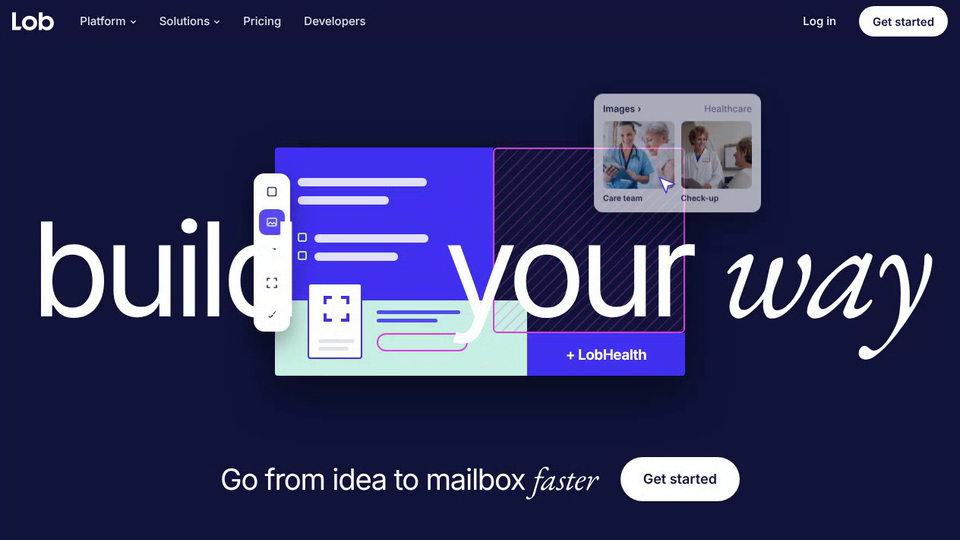
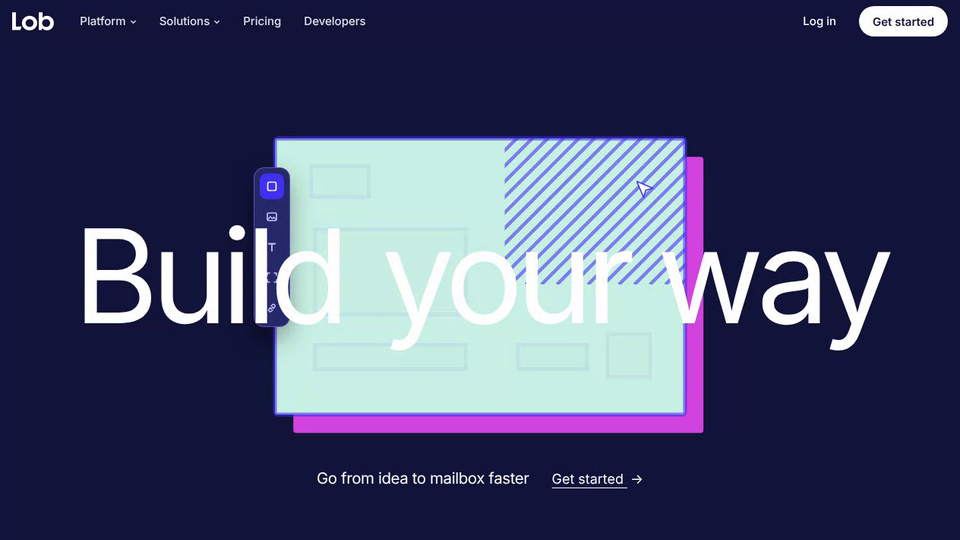
Lob Get Started: hero postcard builds like the Lob template card sketch
Port of the sketch's build: card pops in with a hard offset shadow,
outlined boxes hop between three layouts over a hatched photo corner,
then the panel wipes in, the photo settles, bars, check circles, QR
card and URL pill pop in, before the high fidelity pass (a
{{FirstName}} tag that resolves to Maya), bleed and crop marks, QA scan
and the three checks. Floating UI is dark navy so it reads under the
headline. Build your way is one sans serif line, the subline is smaller
with a thin underlined Get started link, and the mail stack cards are
no longer tilted.

Claude-Session: https://claude.ai/code/session_016rpgucWKf3te6zwsCQ1J4C

Changed region(s): [[0.0312, 0.1481, 0.9688, 0.9481]]

diff --git a/lob-get-started/index.html b/lob-get-started/index.html
@@ -87,8 +87,8 @@ html body nav.back:not(.sb-panel):not(:has(>div))>a,html body nav.back:not(.sb-p
 .chipfile .ok{width:22px;height:22px;border-radius:6px;background:var(--lime);display:grid;place-items:center}
 /* hero postcard: abstract blocks -> high fidelity -> bleed + crop -> QA scan -> checks */
 .hc{position:absolute;left:0;top:0;width:700px;height:430px;transform-origin:0 0;--pu:#4131f1;--mint:#c9f0e4;--hot:#d244de}
-.post{position:absolute;left:80px;top:62px;width:540px;height:300px;border-radius:4px;transition:box-shadow .5s}
-.post.on{box-shadow:0 26px 60px rgba(0,0,0,.45)}
+.pcv{position:absolute;left:0;top:0;width:700px;height:430px}
+.post{position:absolute;left:80px;top:34px;width:540px;height:363px;pointer-events:none}
 .blk{position:absolute;box-sizing:border-box;border:2.5px solid var(--lav);background:rgba(169,156,255,.12);border-radius:6px;opacity:0;transform:scale(.7);transition:opacity .3s,transform .45s cubic-bezier(.2,1.6,.4,1),background .5s,border-color .5s,border-radius .5s}
 .blk.in{opacity:1;transform:none}
 .blk.hf{background:var(--hf);border-color:transparent;border-radius:0}
@@ -119,56 +119,55 @@ html body nav.back:not(.sb-panel):not(:has(>div))>a,html body nav.back:not(.sb-p
 #bU.hf .url{background:var(--hot);border-color:var(--hot)}
 .blk .logo{position:absolute;left:0;right:0;top:50%;transform:translateY(-50%);text-align:center;font:700 19px var(--sans);letter-spacing:-.03em;color:#fff;opacity:0;transition:opacity .4s}
 #bL.hf .logo{opacity:1}#bL.hf .bar{opacity:0}
-.ants2{position:absolute;left:283px;top:-4px;width:261px;height:252px;border:2.5px dashed var(--mint);border-radius:5px;opacity:0;transition:opacity .25s}
+.ants2{position:absolute;left:283px;top:-4px;width:261px;height:303px;border:2.5px dashed var(--mint);border-radius:5px;opacity:0;transition:opacity .25s}
 .scanl{position:absolute;left:-14px;right:-14px;top:0;height:3px;background:var(--mint);box-shadow:0 0 18px 4px rgba(201,240,228,.8);opacity:0}
-.bleed{position:absolute;left:68px;top:50px;width:564px;height:324px;border:2px dashed var(--hot);border-radius:3px;opacity:0;transition:opacity .4s}
+.bleed{position:absolute;left:68px;top:22px;width:564px;height:387px;border:2px dashed var(--hot);border-radius:3px;opacity:0;transition:opacity .4s}
 .bleed i{position:absolute;background:#fff;opacity:.9}
 .bleed i:nth-child(1){left:-22px;top:10px;width:16px;height:2px}.bleed i:nth-child(2){left:10px;top:-22px;width:2px;height:16px}
 .bleed i:nth-child(3){right:-22px;top:10px;width:16px;height:2px}.bleed i:nth-child(4){right:10px;top:-22px;width:2px;height:16px}
 .bleed i:nth-child(5){left:-22px;bottom:10px;width:16px;height:2px}.bleed i:nth-child(6){left:10px;bottom:-22px;width:2px;height:16px}
 .bleed i:nth-child(7){right:-22px;bottom:10px;width:16px;height:2px}.bleed i:nth-child(8){right:10px;bottom:-22px;width:2px;height:16px}
-.qa{position:absolute;left:50%;top:8px;transform:translateX(-50%) translateY(6px);height:30px;padding:0 14px;border-radius:99px;background:#fff;color:#1e2245;display:flex;align-items:center;gap:8px;font:700 11px var(--sans);letter-spacing:.12em;white-space:nowrap;opacity:0;transition:opacity .3s,transform .3s;z-index:3}
+.qa{position:absolute;left:50%;top:8px;transform:translateX(-50%) translateY(6px);height:30px;padding:0 14px;border-radius:99px;background:#262a6b;border:1px solid rgba(169,156,255,.5);color:#fff;display:flex;align-items:center;gap:8px;font:700 11px var(--sans);letter-spacing:.12em;white-space:nowrap;opacity:0;transition:opacity .3s,transform .3s;z-index:3}
 .qa.on{opacity:1;transform:translateX(-50%)}
 .qa i{width:18px;height:18px;border-radius:5px;background:var(--mint);display:grid;place-items:center;font-style:normal;font-size:11px;color:var(--pu)}
-.rail{position:absolute;left:52px;top:96px;width:48px;padding:7px;border-radius:14px;background:#fff;display:flex;flex-direction:column;gap:6px;box-shadow:0 14px 30px rgba(0,0,0,.35);opacity:0;transform:translateX(-8px);transition:opacity .35s,transform .35s;z-index:3}
+.rail{position:absolute;left:52px;top:72px;width:48px;padding:7px;border-radius:14px;background:#262a6b;border:1px solid rgba(169,156,255,.4);display:flex;flex-direction:column;gap:6px;box-shadow:0 14px 30px rgba(0,0,0,.35);opacity:0;transform:translateX(-8px);transition:opacity .35s,transform .35s;z-index:3}
 .rail.on{opacity:1;transform:none}
-.rail b{height:34px;border-radius:9px;display:grid;place-items:center;color:#3a3e5c;transition:background .2s,color .2s}
+.rail b{height:34px;border-radius:9px;display:grid;place-items:center;color:#c9c4ff;transition:background .2s,color .2s}
 .rail b svg{width:16px;height:16px}
 .rail b.on{background:var(--pu);color:#fff}
-.gal{position:absolute;left:500px;top:-6px;width:220px;padding:12px;border-radius:12px;background:#fff;color:#1e2245;box-shadow:0 18px 40px rgba(0,0,0,.4);opacity:0;transform:translateY(-8px);transition:opacity .35s,transform .35s;z-index:3}
+.gal{position:absolute;left:500px;top:-6px;width:220px;padding:12px;border-radius:12px;background:#262a6b;border:1px solid rgba(169,156,255,.4);color:#fff;box-shadow:0 18px 40px rgba(0,0,0,.4);opacity:0;transform:translateY(-8px);transition:opacity .35s,transform .35s;z-index:3}
 .gal.on{opacity:1;transform:none}
 .gal .gt{display:flex;justify-content:space-between;font:600 12px var(--sans);margin-bottom:9px}
-.gal .gn{color:#8a8aa0;font-weight:500}
+.gal .gn{color:#a99cff;font-weight:500}
 .gal .gth{display:grid;grid-template-columns:1fr 1fr;gap:9px}
 .gal .g div{aspect-ratio:1.05;border-radius:7px;background-size:cover;background-position:center;outline:3px solid transparent;outline-offset:2px;transition:outline-color .25s}
 .gal .g.on div{outline-color:var(--hot)}
 .gal .g small{display:block;margin-top:6px;font:600 10.5px var(--sans)}
-.chk{position:absolute;left:22px;top:300px;width:250px;padding:12px 12px 10px;border-radius:12px;background:#fff;color:#1e2245;box-shadow:0 18px 40px rgba(0,0,0,.4);opacity:0;transform:translateY(8px);transition:opacity .35s,transform .35s;z-index:3}
+.chk{position:absolute;left:22px;top:292px;width:250px;padding:12px 12px 10px;border-radius:12px;background:#262a6b;border:1px solid rgba(169,156,255,.4);color:#fff;box-shadow:0 18px 40px rgba(0,0,0,.4);opacity:0;transform:translateY(8px);transition:opacity .35s,transform .35s;z-index:3}
 .chk.on{opacity:1;transform:none}
-.chk .ct{font:700 10px var(--sans);letter-spacing:.14em;color:#8a8aa0;margin-bottom:4px;text-transform:uppercase}
-.chk .cr{display:flex;align-items:center;justify-content:space-between;height:27px;font:500 13px var(--sans);border-top:1px solid #efeff6}
-.chk .cr i{width:20px;height:20px;border-radius:6px;background:#efeff6;display:grid;place-items:center;transform:scale(.8);transition:background .25s,transform .35s cubic-bezier(.2,1.8,.4,1)}
+.chk .ct{font:700 10px var(--sans);letter-spacing:.14em;color:#a99cff;margin-bottom:4px;text-transform:uppercase}
+.chk .cr{display:flex;align-items:center;justify-content:space-between;height:27px;font:500 13px var(--sans);border-top:1px solid rgba(255,255,255,.12)}
+.chk .cr i{width:20px;height:20px;border-radius:6px;background:rgba(255,255,255,.12);display:grid;place-items:center;transform:scale(.8);transition:background .25s,transform .35s cubic-bezier(.2,1.8,.4,1)}
 .chk .cr.ok i{background:var(--mint);transform:none}
 .chk .cr.ok i::after{content:"";width:8px;height:4px;border-left:2px solid var(--pu);border-bottom:2px solid var(--pu);transform:rotate(-45deg) translate(1px,-1px)}
-.chk .csv{display:flex;align-items:center;gap:7px;margin-top:6px;padding:6px 8px;border-radius:8px;background:#f6f5ff;font:700 9.5px var(--sans);letter-spacing:.1em;opacity:0;transition:opacity .3s}
+.chk .csv{display:flex;align-items:center;gap:7px;margin-top:6px;padding:6px 8px;border-radius:8px;background:rgba(255,255,255,.08);font:700 9.5px var(--sans);letter-spacing:.1em;opacity:0;transition:opacity .3s}
 .chk .csv.on{opacity:1}
 .chk .csv b{margin-left:auto;font:600 10px ui-monospace,Menlo,monospace;letter-spacing:0;color:var(--hot)}
 .hcur{position:absolute;left:0;top:0;width:22px;height:22px;z-index:5;opacity:0;transition:opacity .3s;pointer-events:none}
-.words{position:relative;z-index:2;width:100%;display:flex;justify-content:space-between;align-items:baseline;pointer-events:none;font-weight:400;font-size:clamp(64px,13.4vw,196px);line-height:1;letter-spacing:-.055em;padding:0 2%}
+.words{position:relative;z-index:2;width:100%;display:flex;justify-content:center;gap:.3em;align-items:baseline;pointer-events:none;font-weight:400;font-size:clamp(64px,13.4vw,196px);line-height:1;letter-spacing:-.055em;padding:0 2%}
 .words span{display:inline-block}
 .words em.s{letter-spacing:-.03em;font-size:1.14em}
 .w-in{opacity:0;filter:blur(8px);transform:translateY(.12em);transition:opacity .8s cubic-bezier(.2,.8,.2,1),filter .8s,transform .8s cubic-bezier(.2,.8,.2,1)}
 .ready .w-in{opacity:1;filter:none;transform:none}
 .sub{position:relative;z-index:2;display:flex;align-items:center;gap:30px;margin-top:clamp(14px,3vh,34px)}
-.sub p{margin:0;font-size:clamp(24px,3vw,44px);letter-spacing:-.035em;line-height:1.1}
-.sub .pill{height:58px;padding:0 30px;font-size:18px}
+.sub p{margin:0;font-size:clamp(18px,1.6vw,24px);letter-spacing:-.02em;line-height:1.2}
+.sub .tl{color:#fff;text-decoration:underline;text-decoration-thickness:1px;text-underline-offset:5px;font-size:clamp(16px,1.4vw,20px);font-weight:400;white-space:nowrap}
+.sub .tl span{display:inline-block;margin-left:4px;transition:transform .2s}.sub .tl:hover span{transform:translateX(3px)}
 @media (max-width:640px){
   .stage{height:min(62vh,460px)}
   .col{width:92vw}
-  .words{flex-direction:column;align-items:flex-start;justify-content:space-between;height:100%;padding:4% 0}
-  .words span:last-child{align-self:flex-end}
-  .sub{flex-direction:column;gap:16px;text-align:center}
-  .sub .pill{height:50px;font-size:16px}
+  .words{font-size:12.5vw;white-space:nowrap}
+  .sub{flex-direction:column;gap:10px;text-align:center}
 }
 
 /* scroll sections */
@@ -380,15 +379,8 @@ footer nav{display:flex;gap:22px;margin-left:auto;flex-wrap:wrap}
       <div class="hc" id="hc">
         <div class="qa" id="qaChip"></div>
         <div class="bleed" id="bleed"><i></i><i></i><i></i><i></i><i></i><i></i><i></i><i></i></div>
+        <canvas class="pcv" id="pcv"></canvas>
         <div class="post" id="post">
-          <div class="blk" id="bP" style="left:0;top:0;width:287px;height:201px;--hf:#4131f1"></div>
-          <div class="blk" id="bM" style="left:0;top:201px;width:332px;height:99px;--hf:#c9f0e4"></div>
-          <div class="blk img" id="bI" style="left:287px;top:0;width:253px;height:244px"><div class="ph" id="ph1" style="background-image:url(assets/care-1.webp)"></div><div class="ph" id="ph2" style="background-image:url(assets/care-2.webp);background-position:62% 30%"></div></div>
-          <div class="blk" id="bL" style="left:332px;top:244px;width:208px;height:56px;--hf:#4131f1"><b class="logo">+ LobHealth</b><i class="bar" style="width:92px;left:58px;top:23px"></i></div>
-          <div class="blk ln" id="bH" style="left:30px;top:34px;width:236px;height:56px"><span class="tx" id="hlT"></span><i class="bar" style="width:170px;top:6px"></i><i class="bar" style="width:120px;top:30px"></i></div>
-          <div class="blk ln" id="bC" style="left:30px;top:110px;width:236px;height:50px"><span class="tx ck"><b>✓</b>Same-week appointments<br><b>✓</b>Covered by your plan</span><i class="bar" style="width:150px;top:4px;left:22px"></i><i class="bar" style="width:110px;top:28px;left:22px"></i><i class="tick" style="top:2px"></i><i class="tick" style="top:26px"></i></div>
-          <div class="blk qrc" id="bQ" style="left:43px;top:178px;width:72px;height:100px"><div class="q" id="qrH"></div><svg class="brk" viewBox="0 0 24 24"><path d="M2 8V2h6M16 2h6v6M22 16v6h-6M8 22H2v-6" fill="none" stroke="#4131f1" stroke-width="2.6"/></svg><i class="l1"></i><i class="l2"></i></div>
-          <div class="blk ln" id="bU" style="left:134px;top:214px;width:176px;height:60px"><i class="bar2" style="width:110px;top:0"></i><i class="bar2" style="width:80px;top:11px"></i><span class="url" id="urlH"></span></div>
           <div class="ants2" id="antsP"></div>
           <div class="scanl" id="scanl"></div>
         </div>
@@ -405,14 +397,14 @@ footer nav{display:flex;gap:22px;margin-left:auto;flex-wrap:wrap}
           <div class="cr" id="cr1"><span>Deliverability</span><i></i></div>
           <div class="cr" id="cr2"><span>QR code correct</span><i></i></div>
           <div class="cr" id="cr3"><span>Name matches CSV</span><i></i></div>
-          <div class="csv" id="csv"><svg width="13" height="16" viewBox="0 0 16 20"><path d="M1 1h9l5 5v13H1z" fill="#fff" stroke="#4131f1" stroke-width="1.6" stroke-linejoin="round"/><rect x="4" y="10" width="11" height="5" rx="1" fill="#d244de"/></svg>AUDIENCE.CSV<b>first_name: Maya</b></div>
+          <div class="csv" id="csv"><svg width="13" height="16" viewBox="0 0 16 20"><path d="M1 1h9l5 5v13H1z" fill="#fff" stroke="#4131f1" stroke-width="1.6" stroke-linejoin="round"/><rect x="4" y="10" width="11" height="5" rx="1" fill="#d244de"/></svg>AUDIENCE.CSV<b>FirstName: Maya</b></div>
         </div>
         <svg class="hcur" id="hcur" viewBox="0 0 24 24"><path d="M.7.7L23.8 10.3 13.4 13 10.6 23.8z" fill="#fff" stroke="#4333f0" stroke-width="1.7" stroke-linejoin="round"/></svg>
       </div>
     </div>
-    <h1 class="words" aria-label="Build your way"><span class="w-in">build</span><span class="w-in" style="transition-delay:.18s">your <em class="s">way</em></span></h1>
+    <h1 class="words" aria-label="Build your way"><span class="w-in">Build</span><span class="w-in" style="transition-delay:.18s">your way</span></h1>
   </div>
-  <div class="sub w-in" style="transition-delay:.4s"><p>Go from idea to mailbox <em class="s">faster</em></p><a class="pill w" href="#fin">Get started</a></div>
+  <div class="sub w-in" style="transition-delay:.4s"><p>Go from idea to mailbox faster</p><a class="tl" href="#fin">Get started <span aria-hidden="true">→</span></a></div>
 </section>
 
 <!-- 1 templates: five stacked cards; the chosen one is dragged into the Visual Editor -->
@@ -548,71 +540,199 @@ function qr(seed){
 }
 $('#qr1').innerHTML = qr(7); $('#qr2').innerHTML = qr(11); $('#qr3').innerHTML = qr(11);
 
-/* ---------- hero: a healthcare postcard builds, goes high fidelity and passes QA ---------- */
+/* ---------- hero: a healthcare postcard builds like the Lob template card sketch, goes high fidelity and passes QA ---------- */
 requestAnimationFrame(() => document.body.classList.add('ready'));
-const HC = { post: $('#post'), bleed: $('#bleed'), qa: $('#qaChip'), rail: $('#rail'), gal: $('#gal'), chk: $('#chk'), cur: $('#hcur'), scan: $('#scanl'), ants: $('#antsP') };
-const B = { P: $('#bP'), M: $('#bM'), I: $('#bI'), L: $('#bL'), H: $('#bH'), C: $('#bC'), Q: $('#bQ'), U: $('#bU') };
-$('#qrH').innerHTML = qr(23);
+const HC = { bleed: $('#bleed'), qa: $('#qaChip'), rail: $('#rail'), gal: $('#gal'), chk: $('#chk'), cur: $('#hcur'), scan: $('#scanl'), ants: $('#antsP') };
 const railB = {}; document.querySelectorAll('#rail b').forEach((b) => (railB[b.dataset.t] = b));
-const LOOP = 15.6;
-const HL_T = 'Maya, meet your care team', URL_T2 = 'lobhealth.com/maya';
-// [time, block] abstract build order, then [time, block] high fidelity order
-const BUILD = [[.3, 'P'], [.55, 'M'], [.8, 'I'], [1.05, 'L'], [1.4, 'H'], [1.7, 'C'], [2.0, 'Q'], [2.3, 'U']];
-const HIFI = [[3.0, 'P'], [3.0, 'M'], [3.0, 'L'], [4.1, 'I'], [4.6, 'H'], [5.7, 'C'], [6.0, 'Q'], [6.4, 'U']];
+const PU = '#4131f1', MINT = '#c9f0e4', HOT = '#d244de', WHITE = '#ffffff', SOFT = '#9d94f7';
+const CW0 = 714, CH0 = 480, KS = 540 / CW0, CX0 = 80, CY0 = 34;   // card space -> stage px
+const SWL = 7;
+// the sketch's three layout poses for the five outlined boxes, moved into card space
+const POSES = [
+  [[285, 405, 108, 60], [147, 654, 284, 160], [976, 809, 80, 80], [302, 873, 284, 46], [661, 873, 130, 46]],
+  [[407, 838, 108, 58], [302, 574, 284, 160], [302, 827, 80, 80], [610, 827, 285, 48], [764, 895, 130, 48]],
+  [[302, 562, 108, 58], [302, 668, 284, 160], [819, 853, 80, 80], [302, 873, 284, 46], [661, 873, 130, 46]]
+].map((p) => p.map(([x, y, w, h]) => [x - 243, y - 516, w, h]));
+const EL_ORDER = [3, 4, 2, 0, 1];
+const IMG1 = new Image(); IMG1.src = 'assets/care-1.webp';
+const IMG2 = new Image(); IMG2.src = 'assets/care-2.webp';
+const QRM = (() => { const n = 25; let s = 23; const out = []; const rnd = () => { s = (s * 9301 + 49297) % 233280; return s / 233280; };
+  const fd = (x, y) => x < 7 && y < 7 || x >= n - 7 && y < 7 || x < 7 && y >= n - 7;
+  for (let y = 0; y < n; y++) for (let x = 0; x < n; x++) { let on; if (fd(x, y)) { const fx = x >= n - 7 ? x - (n - 7) : x, fy = y >= n - 7 ? y - (n - 7) : y; on = fx === 0 || fy === 0 || fx === 6 || fy === 6 || (fx >= 2 && fx <= 4 && fy >= 2 && fy <= 4); } else on = rnd() > .52; if (on) out.push([x, y]); }
+  return out; })();
+const LOOP = 18.4;
+const span = (t, a, b) => cl((t - a) / (b - a));
+const cv = $('#pcv'); const cx = cv.getContext('2d');
+function rr(x, y, w, h, r){ cx.beginPath(); if (cx.roundRect) cx.roundRect(x, y, w, h, Math.max(0, Math.min(r, w / 2, h / 2))); else cx.rect(x, y, w, h); }
+function hatch(x, y, w, h, col, gap, lw){ cx.save(); cx.beginPath(); cx.rect(x, y, w, h); cx.clip(); cx.strokeStyle = col; cx.lineWidth = lw; cx.beginPath(); for (let d = -h; d < w; d += gap) { cx.moveTo(x + d, y + h); cx.lineTo(x + d + h, y); } cx.stroke(); cx.restore(); }
+function cover(img, x, y, w, h, fx, fy, z){ if (!img.complete || !img.naturalWidth) return; const k = Math.max(w / img.naturalWidth, h / img.naturalHeight) * z, iw = img.naturalWidth * k, ih = img.naturalHeight * k; cx.drawImage(img, x + (w - iw) * fx, y + (h - ih) * fy, iw, ih); }
+// a box from the sketch: pops in, hops between the three poses (no tilt), fades as the real design takes over
+function drawEl(i, t){
+  const grow = popIn((t - .5 - i * .08) / .35), fade = 1 - easeIO(span(t, 4.6, 5.1));
+  if (grow <= 0 || fade <= 0) return;
+  const u1 = easeIO(span(t, 1.3 + i * .12, 2.1 + i * .12)), u2 = easeIO(span(t, 3.0 + i * .12, 3.8 + i * .12));
+  const a = POSES[0][i], b = POSES[1][i], c = POSES[2][i], v = [];
+  for (let k = 0; k < 4; k++) v.push(lerp(lerp(a[k], b[k], u1), c[k], u2));
+  const hop = Math.sin(Math.PI * u1) + Math.sin(Math.PI * u2);
+  cx.save(); cx.globalAlpha = fade;
+  cx.translate(v[0] + v[2] / 2, v[1] + v[3] / 2 - hop * 24);
+  const g = grow * (.92 + .08 * fade); cx.scale(g, g);
+  cx.fillStyle = MINT; cx.strokeStyle = PU; cx.lineWidth = SWL;
+  cx.beginPath(); cx.rect(-v[2] / 2, -v[3] / 2, v[2], v[3]); cx.fill(); cx.stroke();
+  cx.restore();
+}
+function checkMark(x, y, s){ cx.save(); cx.translate(x, y); cx.scale(s, s); cx.fillStyle = WHITE; cx.beginPath(); cx.arc(0, 0, 12, 0, Math.PI * 2); cx.fill(); cx.strokeStyle = PU; cx.lineWidth = 2.6; cx.lineCap = 'round'; cx.lineJoin = 'round'; cx.beginPath(); cx.moveTo(-5, 0); cx.lineTo(-1.5, 3.5); cx.lineTo(5, -3.5); cx.stroke(); cx.restore(); }
+// the LobHealth design: panel wipe, photo, headline, checks, QR card, URL, logo; then each goes high fidelity
+function drawDesign(t){
+  const ew = easeIO(span(t, 5.2, 5.8));
+  if (ew > 0) { cx.fillStyle = PU; cx.fillRect(0, 0, 379 * ew, 321); }
+  const lw = easeIO(span(t, 5.5, 6.1));
+  if (lw > 0) { cx.fillStyle = PU; cx.fillRect(439, 390, 275 * lw, 90); }
+  // photo slot: image 1 fades and settles in, image 2 replaces it later
+  const e1 = ease(span(t, 5.5, 6.3)), e2 = ease(span(t, 11.1, 11.7));
+  for (const [img, e, fx] of [[IMG1, e1, .5], [IMG2, e2, .62]]) {
+    if (e <= 0) continue;
+    cx.save(); cx.beginPath(); cx.rect(379, 0, 335, 390); cx.clip(); cx.globalAlpha = e;
+    cover(img, 379, 0, 335, 390, fx, .3, 1.1 - .1 * e); cx.restore();
+  }
+  // headline: two bars, later the real text
+  const hi = span(t, 8.7, 9.0);
+  for (let k = 0; k < 2; k++) {
+    const g = easeIO(span(t, 6.3 + k * .15, 6.8 + k * .15));
+    if (g <= 0 || hi >= 1) continue;
+    cx.save(); cx.globalAlpha = 1 - hi; cx.fillStyle = WHITE; cx.shadowColor = 'rgba(30,20,170,.45)'; cx.shadowBlur = 36; cx.shadowOffsetY = 16;
+    rr(53, 64 + k * 34, (k ? 170 : 240) * g, 17, 8.5); cx.fill(); cx.restore();
+  }
+  if (t >= 8.7) {
+    // {{FirstName}} goes in as a merge tag, later it resolves to the CSV record's name
+    const res = t >= 11.8, REST = 'meet your care team';
+    const chipIn = popIn((t - 8.8) / .35), n = Math.round(span(t, 9.0, 9.7) * (REST.length + 1));
+    cx.save(); cx.textBaseline = 'alphabetic';
+    if (!res) {
+      cx.font = '600 22px ui-monospace, Menlo, monospace';
+      const tw = cx.measureText('{{FirstName}}').width;
+      if (chipIn > 0) { cx.save(); cx.translate(53, 74); cx.scale(chipIn, chipIn); rr(0, -22, tw + 18, 34, 7); cx.fillStyle = HOT; cx.fill(); cx.fillStyle = WHITE; cx.fillText('{{FirstName}}', 9, 3); cx.restore(); }
+      cx.font = '500 30px Inter, Helvetica, Arial, sans-serif'; cx.fillStyle = WHITE;
+      if (n > 0) cx.fillText(',', 53 + tw + 22, 86);
+    } else {
+      const pop = popIn((t - 11.8) / .35);
+      cx.font = '500 30px Inter, Helvetica, Arial, sans-serif';
+      const w = cx.measureText('Maya').width;
+      if (t >= 16.4 && t < 17.4) { cx.fillStyle = HOT; rr(47, 52, w + 12, 44, 6); cx.fill(); }
+      cx.save(); cx.translate(53, 88); cx.scale(pop, pop); cx.fillStyle = WHITE; cx.fillText('Maya', 0, 0); cx.restore();
+      cx.fillStyle = WHITE; cx.fillText(',', 53 + w, 88);
+    }
+    cx.font = '500 30px Inter, Helvetica, Arial, sans-serif'; cx.fillStyle = WHITE;
+    const l2 = REST.slice(0, Math.max(0, n - 1));
+    cx.fillText(l2, 53, 130);
+    if (t < 9.8 && Math.floor(t * 4) % 2 === 0) { cx.fillStyle = MINT; cx.fillRect(53 + cx.measureText(l2).width + 3, 102, 3, 34); }
+    cx.restore();
+  }
+  // checklist: check circles pop, bars grow, later real text
+  const ct = span(t, 9.8, 10.1);
+  for (let k = 0; k < 2; k++) {
+    const y = 186 + k * 40;
+    const pc = popIn((t - 6.9 - k * .25) / .35);
+    if (pc > 0) checkMark(65, y, pc);
+    const g = easeIO(span(t, 7.0 + k * .25, 7.5 + k * .25));
+    if (g > 0 && ct < 1) { cx.save(); cx.globalAlpha = 1 - ct; cx.fillStyle = SOFT; rr(92, y - 8, [190, 150][k] * g, 16, 8); cx.fill(); cx.restore(); }
+    if (ct > 0) { cx.save(); cx.globalAlpha = ct; cx.fillStyle = WHITE; cx.font = '500 19px Inter, Helvetica, Arial, sans-serif'; cx.textBaseline = 'middle'; cx.fillText(['Same-week appointments', 'Covered by your plan'][k], 92, y + 1); cx.restore(); }
+  }
+  // QR card: pops in with brackets, later the real code draws in
+  const q = popIn((t - 8.1) / .4);
+  if (q > 0) {
+    cx.save(); cx.translate(57 + 46, 298 + 75); cx.scale(q, q); cx.translate(-46, -75);
+    cx.fillStyle = WHITE; cx.fillRect(0, 0, 92, 150);
+    if (t >= 15.7 && t < 16.4) { cx.strokeStyle = HOT; cx.lineWidth = 6; cx.strokeRect(-3, -3, 98, 156); }
+    const qr = span(t, 10.3, 10.9);
+    cx.save(); cx.globalAlpha = 1 - qr; cx.strokeStyle = PU; cx.lineWidth = 3.4;
+    const br = (x, y, dx, dy) => { cx.beginPath(); cx.moveTo(x + dx * 14, y); cx.lineTo(x, y); cx.lineTo(x, y + dy * 14); cx.stroke(); };
+    br(22, 22, 1, 1); br(70, 22, -1, 1); br(22, 70, 1, -1); br(70, 70, -1, -1); cx.restore();
+    if (qr > 0) { cx.save(); cx.beginPath(); cx.rect(10, 10, 72, 72 * qr); cx.clip(); cx.fillStyle = '#1e2245'; const m = 72 / 25; for (const [x, y] of QRM) cx.fillRect(10 + x * m, 10 + y * m, m + .2, m + .2); cx.restore(); }
+    cx.fillStyle = '#e4e4f0'; rr(16, 98, 60, 8, 4); cx.fill(); rr(16, 114, 46, 8, 4); cx.fill();
+    cx.restore();
+  }
+  // URL: two bars and a pill, later the PURL on hot pink
+  const g1 = easeIO(span(t, 7.7, 8.2)), g2 = easeIO(span(t, 7.85, 8.35));
+  cx.fillStyle = PU;
+  if (g1 > 0) { rr(176, 346, 160 * g1, 12, 6); cx.fill(); }
+  if (g2 > 0) { rr(176, 366, 118 * g2, 12, 6); cx.fill(); }
+  const pp = popIn((t - 8.0) / .4);
+  if (pp > 0) {
+    const fillp = span(t, 10.0, 10.3);
+    cx.save(); cx.translate(176, 418); cx.scale(pp, pp);
+    rr(0, -18, 244, 36, 18); cx.fillStyle = 'rgba(210,68,222,' + fillp + ')'; cx.fill(); cx.strokeStyle = HOT; cx.lineWidth = 4; cx.stroke();
+    const U = 'lobhealth.com/' + (t >= 11.8 ? 'maya' : '{{FirstName}}'), un = t >= 11.8 ? U.length : Math.round(span(t, 10.05, 10.6) * U.length);
+    if (un > 0) { cx.fillStyle = WHITE; cx.font = '600 15px Inter, Helvetica, Arial, sans-serif'; cx.textBaseline = 'middle'; cx.fillText(U.slice(0, un), 18, 1); }
+    cx.restore();
+  }
+  // logo block: a white bar, later the LobHealth wordmark
+  const lb = easeIO(span(t, 6.1, 6.5)), lt = span(t, 10.6, 10.9);
+  if (lb > 0 && lt < 1) { cx.save(); cx.globalAlpha = 1 - lt; cx.fillStyle = WHITE; rr(519, 429, 115 * lb, 13, 6.5); cx.fill(); cx.restore(); }
+  if (lt > 0) { cx.save(); cx.globalAlpha = lt; cx.fillStyle = WHITE; cx.font = '700 30px Inter, Helvetica, Arial, sans-serif'; cx.textAlign = 'center'; cx.textBaseline = 'middle'; cx.fillText('+ LobHealth', 576, 436); cx.restore(); }
+}
+function drawCard(t){
+  const grow = popIn(t / .5);
+  if (grow <= .001) return;
+  const d = easeIO(span(t, 4.7, 5.3)), wire = 1 - d;
+  const radius = lerp(6, 3, d);
+  cx.save();
+  cx.translate(CW0 / 2, CH0 / 2); cx.scale(grow, grow); cx.translate(-CW0 / 2, -CH0 / 2);
+  rr(32, 32, CW0, CH0, radius); cx.fillStyle = HOT; cx.fill();   // hard offset shadow
+  rr(0, 0, CW0, CH0, radius); cx.fillStyle = MINT; cx.fill();
+  cx.save(); rr(0, 0, CW0, CH0, radius); cx.clip();
+  if (wire > 0) { cx.globalAlpha = wire; hatch(400, -6, 320, 260, PU, 27, 6); cx.globalAlpha = 1; }
+  drawDesign(t);
+  cx.restore();
+  if (wire > 0) { cx.globalAlpha = wire; rr(0, 0, CW0, CH0, radius); cx.strokeStyle = PU; cx.lineWidth = SWL; cx.stroke(); cx.globalAlpha = 1; }
+  for (const i of EL_ORDER) drawEl(i, t);
+  cx.restore();
+}
 // cursor keyframes in stage px: [t, x, y]
-const HK = [[0, 640, 470], [.4, 76, 113], [1.3, 76, 113], [1.5, 76, 193], [2.1, 76, 233], [2.4, 76, 273], [3.2, 640, 120], [3.8, 556, 90], [4.3, 556, 90], [7.2, 652, 90], [7.9, 652, 92], [8.6, 760, 470], [15.6, 760, 470]];
+const HK = [[0, 640, 470], [.4, 76, 89], [4.6, 76, 89], [5.0, 556, 90], [5.6, 556, 90], [6.2, 76, 169], [6.8, 76, 129], [7.6, 76, 249], [8.4, 76, 209], [8.8, 76, 169], [9.9, 76, 249], [10.5, 76, 209], [11.0, 652, 90], [11.6, 652, 92], [12.1, 760, 470], [LOOP, 760, 470]];
 function at(t, K){ for (let i = 1; i < K.length; i++) if (t <= K[i][0]) { const a = K[i - 1], b = K[i]; const k = easeIO((t - a[0]) / (b[0] - a[0] || 1)); return [lerp(a[1], b[1], k), lerp(a[2], b[2], k)]; } return K[K.length - 1].slice(1); }
 const tog = (el, c, on) => el.classList.toggle(c, !!on);
-function heroAt(t){
+function heroAt(t, S){
   const fade = t > LOOP - .5 ? 1 - (t - (LOOP - .5)) / .5 : 1;
   $('#hc').style.opacity = fade;
-  for (const k in B) { tog(B[k], 'in', BUILD.some(([bt, b]) => b === k && t >= bt)); tog(B[k], 'hf', HIFI.some(([bt, b]) => b === k && t >= bt)); }
-  tog(HC.post, 'on', t >= 3);
-  // tool rail: the tool that is placing the current block
-  tog(HC.rail, 'on', t > .2 && t < 8.6);
-  const tool = t < .3 ? null : t < 1.3 ? 'shape' : t < 1.4 ? 'image' : t < 2 ? 'text' : t < 2.3 ? 'qr' : t < 2.7 ? 'link' : t < 6 ? (t >= 4.6 && t < 5.7 ? 'text' : t >= 3.4 && t < 4.6 ? 'image' : null) : t < 6.4 ? 'qr' : t < 6.9 ? 'link' : t >= 7.2 && t < 8.2 ? 'image' : null;
+  const dpr = Math.min(2, devicePixelRatio || 1), W = Math.round(700 * S * dpr), H = Math.round(430 * S * dpr);
+  if (cv.width !== W || cv.height !== H) { cv.width = W; cv.height = H; }
+  cx.setTransform(1, 0, 0, 1, 0, 0); cx.clearRect(0, 0, W, H);
+  cx.setTransform(S * dpr * KS, 0, 0, S * dpr * KS, S * dpr * CX0, S * dpr * CY0);
+  drawCard(t);
+  // tool rail: the tool placing the current element
+  tog(HC.rail, 'on', t > .2 && t < 12.1);
+  const tool = t < .4 ? null : t < 5.0 ? 'shape' : t < 6.2 ? 'image' : t < 6.9 ? 'text' : t < 7.7 ? 'shape' : t < 8.1 ? 'link' : t < 8.6 ? 'qr' : t < 9.9 ? 'text' : t < 10.3 ? 'link' : t < 10.9 ? 'qr' : t < 11.7 ? 'image' : null;
   for (const k in railB) tog(railB[k], 'on', k === tool);
-  // gallery: picks image 1, later image 2, and the photo slot follows
-  tog(HC.gal, 'on', t >= 3.4 && t < 8.6);
-  tog($('#g1'), 'on', t >= 3.8 && t < 7.5);
-  tog($('#g2'), 'on', t >= 7.5 && t < 8.6);
-  $('#ph1').style.opacity = t >= 4.1 ? 1 : 0;
-  $('#ph2').style.opacity = t >= 7.8 ? 1 : 0;
-  HC.ants.style.opacity = (t >= 3.9 && t < 4.6) || (t >= 7.5 && t < 8.4) ? 1 : 0;
-  // headline and URL type in
-  const hn = Math.round(seg(t, 4.7, 5.5) * HL_T.length);
-  const typing = t >= 4.6 && t < 5.6;
-  const ht = HL_T.slice(0, hn);
-  $('#hlT').innerHTML = (ht.length >= 4 ? '<span class="nm' + (t >= 13.6 && t < 14.6 ? ' hl' : '') + '">Maya</span>' + ht.slice(4) : ht) + (typing ? '<span class="car"></span>' : '');
-  $('#urlH').textContent = URL_T2.slice(0, Math.round(seg(t, 6.5, 7.0) * URL_T2.length));
-  // bleed and crop marks
-  HC.bleed.style.opacity = t >= 8.8 && t < 10.4 ? 1 : 0;
-  // QA scan sweeps the card
-  const sc = seg(t, 10.6, 11.9);
+  // gallery: image 1 then image 2, the photo slot follows
+  tog(HC.gal, 'on', t >= 5.0 && t < 12.0);
+  tog($('#g1'), 'on', t >= 5.4 && t < 10.9);
+  tog($('#g2'), 'on', t >= 10.9 && t < 12.0);
+  HC.ants.style.opacity = (t >= 5.4 && t < 6.4) || (t >= 10.9 && t < 11.8) ? 1 : 0;
+  HC.bleed.style.opacity = t >= 12.2 && t < 13.6 ? 1 : 0;
+  const sc = span(t, 13.8, 15.0);
   HC.scan.style.opacity = sc > 0 && sc < 1 ? 1 : 0;
-  HC.scan.style.top = (sc * 300) + 'px';
-  const chip = t >= 9.3 && t < 10.4 ? 'BLEED + CROP MARKS <i>✓</i>' : t >= 10.5 && t < 12 ? 'QA SCAN' : t >= 12 && t < 12.2 ? 'QA SCAN <i>✓</i>' : '';
+  HC.scan.style.top = (sc * 363) + 'px';
+  const chip = t >= 11.8 && t < 12.5 ? 'FirstName → Maya <i>✓</i>' : t >= 12.6 && t < 13.6 ? 'BLEED + CROP MARKS <i>✓</i>' : t >= 13.7 && t < 15.0 ? 'QA SCAN' : t >= 15.0 && t < 15.3 ? 'QA SCAN <i>✓</i>' : '';
   if (chip && HC.qa.innerHTML !== chip) HC.qa.innerHTML = chip;
   tog(HC.qa, 'on', !!chip);
-  // three checks
-  tog(HC.chk, 'on', t >= 12.1 && t < LOOP - .4);
-  tog($('#cr1'), 'ok', t >= 12.6); tog($('#cr2'), 'ok', t >= 13.1); tog($('#cr3'), 'ok', t >= 13.8);
-  tog(B.Q, 'flag', t >= 12.9 && t < 13.5);
-  tog($('#csv'), 'on', t >= 13.5);
-  // cursor
-  const [cx, cy] = at(t, HK);
-  HC.cur.style.opacity = t > .3 && t < 8.4 ? 1 : 0;
-  HC.cur.style.transform = 'translate(' + cx + 'px,' + cy + 'px)';
+  tog(HC.chk, 'on', t >= 15.1 && t < LOOP - .4);
+  tog($('#cr1'), 'ok', t >= 15.5); tog($('#cr2'), 'ok', t >= 16.0); tog($('#cr3'), 'ok', t >= 16.7);
+  tog($('#csv'), 'on', t >= 16.4);
+  const [px, py] = at(t, HK);
+  HC.cur.style.opacity = t > .3 && t < 11.9 ? 1 : 0;
+  HC.cur.style.transform = 'translate(' + px + 'px,' + py + 'px)';
 }
-let hT0 = performance.now(), hOff = CLIP ? 2.7 : 0, hRun = !CLIP;
+let hT0 = performance.now(), hOff = CLIP ? 4.3 : 0, hRun = !CLIP;
 function heroLoop(now){
-  const col = $('#col'); $('#hc').style.transform = 'scale(' + (col.clientWidth / 700) + ')';
+  const S = $('#col').clientWidth / 700;
+  $('#hc').style.transform = 'scale(' + S + ')';
   const t = hRun ? (((now - hT0) / 1000 + hOff) % LOOP) : hOff;
-  heroAt(t);
+  heroAt(t, S);
   requestAnimationFrame(heroLoop);
 }
 requestAnimationFrame(heroLoop);
-// #clip: hold the built abstract card until the recorder starts the timeline
+// #clip: hold the outlined layout until the recorder starts the timeline
 window.__rb = { play: () => { hT0 = performance.now(); hRun = true; }, seek: (t) => { hRun = false; hOff = t; } };
 
 /* ---------- 1 templates fan ---------- */
@@ -855,8 +975,8 @@ function ctaUpdate(p, SW, SH){
 const LINE = [['mail-3', 'Insurance Co', 'QR CODE', '#e4ee5c', '70% 40%'], ['mail-8', 'VIP Weekend', 'COUPON CODE', '#d045dc', '30% 50%'], ['mail-9', 'Full Report', 'PURL', '#a99cff', '75% 60%'], ['mail-11', 'Coffee Co', 'QR CODE', '#ffc94d', '0% 50%'], ['mail-1', 'Automotive', 'PURL', '#e4ee5c', '72% 40%'], ['mail-7', 'Health', 'COUPON CODE', '#f7a6f7', '78% 30%'], ['mail-6', 'Co.', 'QR CODE', '#a99cff', '72% 40%']];
 const ICON = { 'QR CODE': '<svg viewBox="0 0 12 12"><path d="M1 3.5V1h2.5M8.5 1H11v2.5M11 8.5V11H8.5M3.5 11H1V8.5" fill="none" stroke="#1e2245" stroke-width="1.5"/></svg>', 'PURL': '<svg viewBox="0 0 12 12"><path d="M5 7l2-2M4.5 5.5L3 7a1.8 1.8 0 002.5 2.5L7 8M7.5 6.5L9 5a1.8 1.8 0 00-2.5-2.5L5 4" fill="none" stroke="#1e2245" stroke-width="1.3" stroke-linecap="round"/></svg>', 'COUPON CODE': '<svg viewBox="0 0 12 12"><path d="M1 3h10v2a1 1 0 000 2v2H1V7a1 1 0 000-2z" fill="none" stroke="#1e2245" stroke-width="1.3"/></svg>' };
 const row = $('#row');
-row.innerHTML = LINE.map((l, i) => '<div class="lc" style="background:' + l[3] + ';transform:rotate(' + [-4, 3, -2, 4, -3, 2, -4][i] + 'deg) translateY(' + [8, -4, 10, -6, 6, -2, 8][i] + 'px);z-index:' + (i + 1) + '"><div class="im" style="background-image:url(assets/' + l[0] + '.webp);background-position:' + l[4] + '"></div><h4>' + l[1] + '</h4></div>').join('') +
-  '<div class="lc last" style="transform:rotate(-2deg);z-index:20"><div class="in2"><h4>Your mailer here</h4><a class="pill w" href="#fin">Start building →</a><small>QR codes, PURLs and coupon codes on every template</small></div></div>';
+row.innerHTML = LINE.map((l, i) => '<div class="lc" style="background:' + l[3] + ';transform:translateY(' + [8, -4, 10, -6, 6, -2, 8][i] + 'px);z-index:' + (i + 1) + '"><div class="im" style="background-image:url(assets/' + l[0] + '.webp);background-position:' + l[4] + '"></div><h4>' + l[1] + '</h4></div>').join('') +
+  '<div class="lc last" style="z-index:20"><div class="in2"><h4>Your mailer here</h4><a class="pill w" href="#fin">Start building →</a><small>QR codes, PURLs and coupon codes on every template</small></div></div>';
 function lineUpdate(p, SW, SH){
   const head = $('#lineH');
   const top = head.offsetTop + head.offsetHeight;
